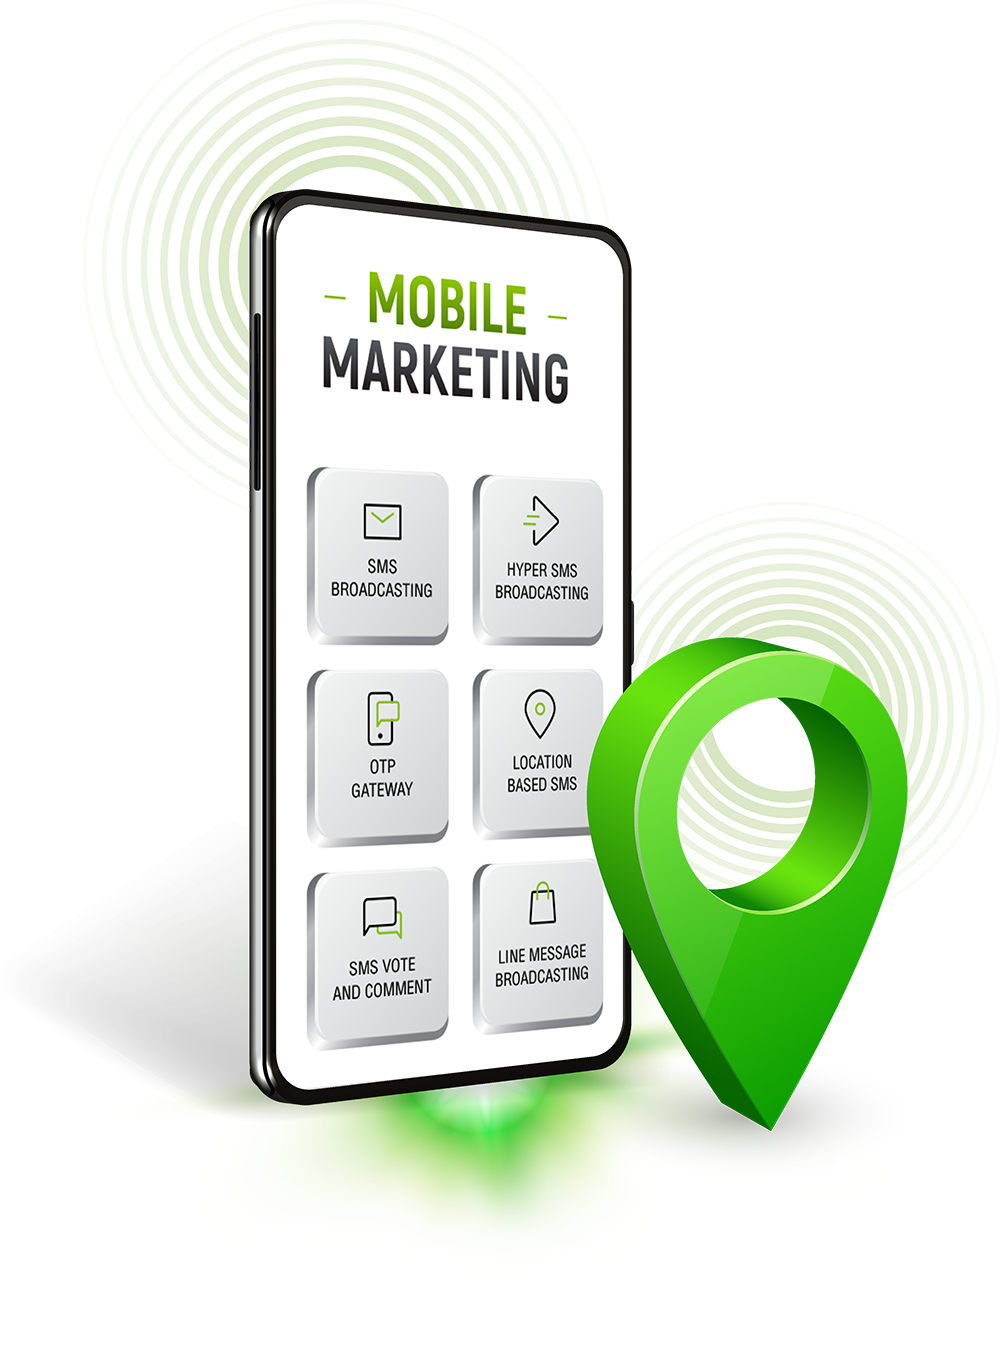
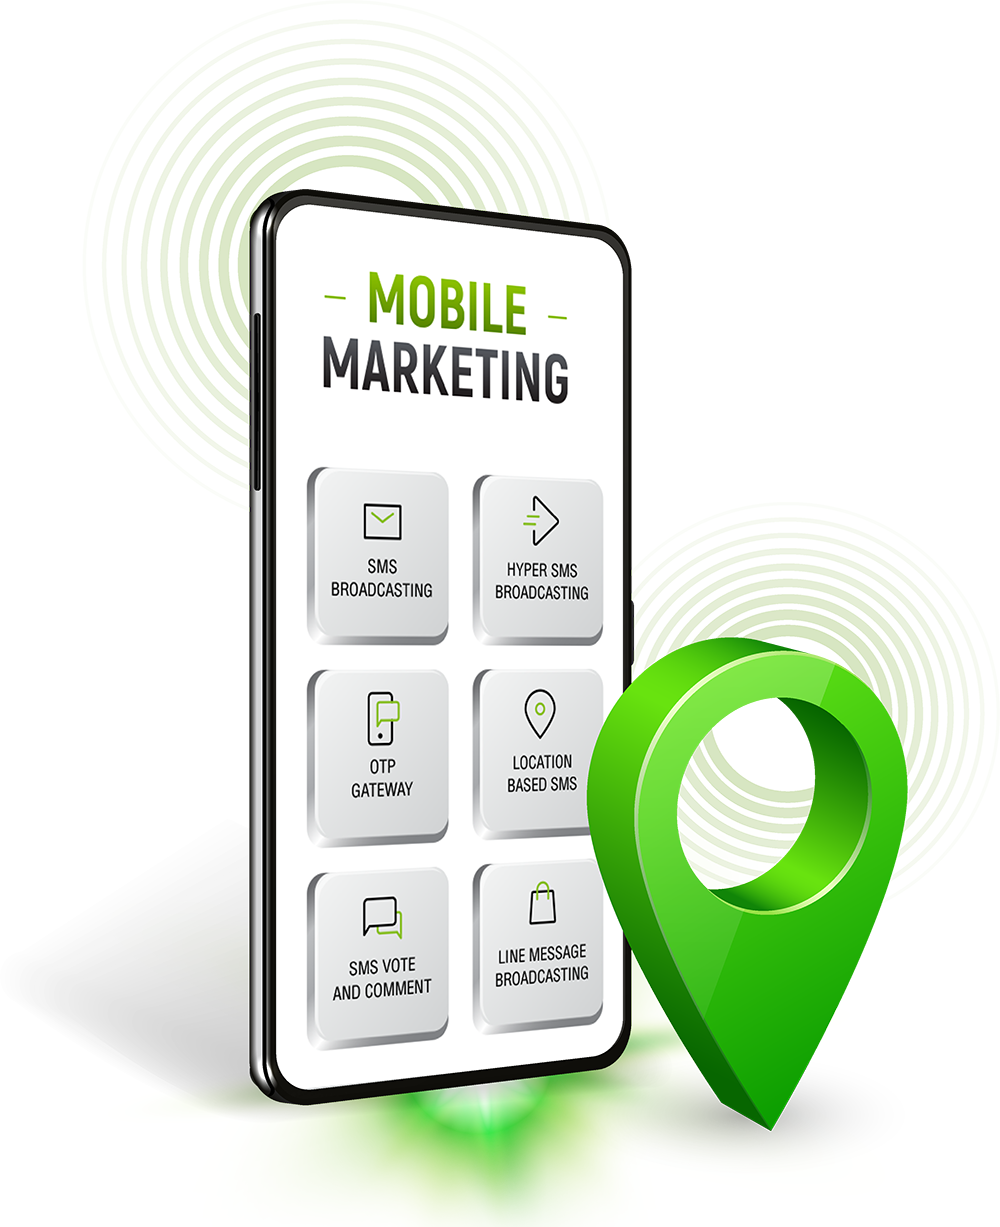
fix im10.png padding bottom 0

Changed region(s): [[0.093, 0.031, 0.961, 1.0], [0.248, 0.3716, 0.279, 0.4026], [0.217, 0.7123, 0.248, 0.7433]]

diff --git a/css/digistyle.css b/css/digistyle.css
@@ -1485,14 +1485,12 @@ body>sec {
     background-size: 100% 100%;
     width: 100%;
     height: auto;
-    padding: 3% 0 3% 0;
+    padding: 3% 0 0 0;
 }
 .ic-mobMKT1 {
     position: relative;
     max-width: 100%;
-    width: 100%;
-    top: 0;
-    left: 0;
+    width: 100%;    
     height: auto;
     object-fit: contain;
     margin-top: -12%;
